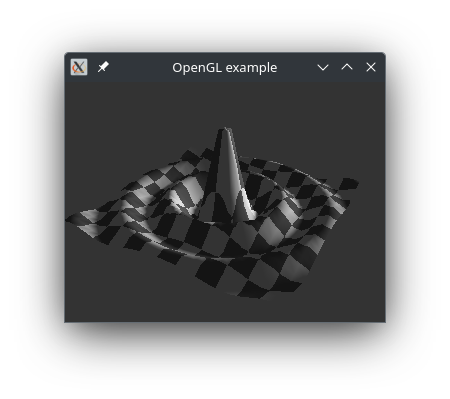
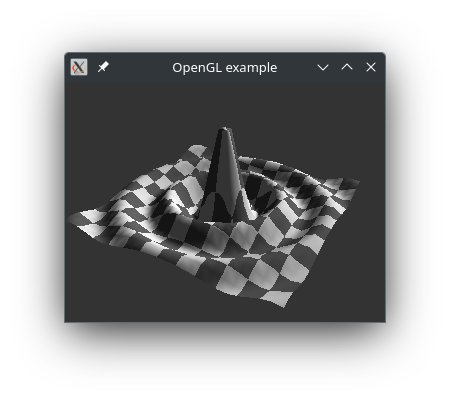
Rotate normals

Changed region(s): [[0.1244, 0.3609, 0.8089, 0.782]]

diff --git a/opengl-example.c b/opengl-example.c
@@ -42,7 +42,7 @@ uniform mat4 projection;\n\
 uniform float distance;\n\
 in vec2 uv_contr[];\n\
 out vec2 uv_eval;\n\
-out vec2 grad_eval;\n\
+out vec3 normal_eval;\n\
 float amplitude = 0.4;\n\
 float scale = 30;\n\
 float sinc(float x)\n\
@@ -68,7 +68,7 @@ void main()\n\
                  mix(gl_in[3].gl_Position, gl_in[2].gl_Position, gl_TessCoord.x),\n\
                  gl_TessCoord.y);\n\
   pos.z = f(pos.xy);\n\
-  grad_eval = fdv(pos.xy);\n\
+  normal_eval = rotx * rotz * vec3(-fdv(pos.xy), 1);\n\
   vec3 translation = vec3(0, 0, -distance);\n\
   gl_Position = projection * vec4(rotx * rotz * pos.xyz + translation, 1);\n\
   uv_eval = mix(mix(uv_contr[0], uv_contr[1], gl_TessCoord.x),\n\
@@ -79,23 +79,23 @@ void main()\n\
 const char *geometrySource = "#version 410 core\n\
 layout(triangles) in;\n\
 in vec2 uv_eval[3];\n\
-in vec2 grad_eval[3];\n\
+in vec3 normal_eval[3];\n\
 layout(triangle_strip, max_vertices = 3) out;\n\
 out vec2 UV;\n\
-out vec2 gradient;\n\
+out vec3 normal;\n\
 void main(void)\n\
 {\n\
   gl_Position = gl_in[0].gl_Position;\n\
   UV = uv_eval[0];\n\
-  gradient = grad_eval[0];\n\
+  normal = normal_eval[0];\n\
   EmitVertex();\n\
   gl_Position = gl_in[1].gl_Position;\n\
   UV = uv_eval[1];\n\
-  gradient = grad_eval[1];\n\
+  normal = normal_eval[1];\n\
   EmitVertex();\n\
   gl_Position = gl_in[2].gl_Position;\n\
   UV = uv_eval[2];\n\
-  gradient = grad_eval[2];\n\
+  normal = normal_eval[2];\n\
   EmitVertex();\n\
   EndPrimitive();\n\
 }";
@@ -104,13 +104,13 @@ const char *fragmentSource = "#version 410 core\n\
 uniform sampler2D tex;\n\
 uniform vec3 light;\n\
 in vec2 UV;\n\
-in vec2 gradient;\n\
+in vec3 normal;\n\
 out vec3 fragColor;\n\
 void main()\n\
 {\n\
-  vec3 normal = normalize(vec3(-gradient, 1));\n\
+  vec3 n = normalize(normal);\n\
   float ambient = 0.2;\n\
-  float diffuse = 0.8 * max(dot(light, normal), 0);\n\
+  float diffuse = 0.8 * max(dot(light, n), 0);\n\
   fragColor = (ambient + diffuse) * texture(tex, UV).rgb;\n\
 }";
 

diff --git a/opengl.tex b/opengl.tex
@@ -982,7 +982,7 @@ void main()
     \begin{center}
         \begin{minipage}[c]{.95\textwidth}
             \begin{minted}[highlightlines={15}]{glsl}
-out vec2 grad_eval;
+out vec3 normal_eval;
 // ...
 vec2 fdv(vec2 v)
 {
@@ -997,7 +997,7 @@ vec2 fdv(vec2 v)
 void main()
 {
   // ...
-  grad_eval = fdv(pos.xy);
+  normal_eval = rotx * rotz * vec3(-fdv(pos.xy), 1);
   // ...
 }
             \end{minted}
@@ -1012,19 +1012,19 @@ void main()
         \begin{minipage}[c]{.95\textwidth}
             \begin{minted}[highlightlines={2,4,8,11,14}]{glsl}
 // ...
-in vec2 grad_eval[3];
+in vec3 normal_eval[3];
 // ...
-out vec2 gradient;
+out vec3 normal;
 void main(void)
 {
   // ...
-  gradient = grad_eval[0];
+  normal = normal_eval[0];
   EmitVertex();
   // ...
-  gradient = grad_eval[1];
+  normal = normal_eval[1];
   EmitVertex();
   // ...
-  gradient = grad_eval[2];
+  normal = normal_eval[2];
   EmitVertex();
   EndPrimitive();
 }
@@ -1043,13 +1043,13 @@ void main(void)
 uniform sampler2D tex;
 uniform vec3 light;
 in vec2 UV;
-in vec2 gradient;
+in vec3 normal;
 out vec3 fragColor;
 void main()
 {
-  vec3 normal = normalize(vec3(-gradient, 1));
+  vec3 n = normalize(normal);
   float ambient = 0.2;
-  float diffuse = 0.8 * max(dot(light, normal), 0);
+  float diffuse = 0.8 * max(dot(light, n), 0);
   fragColor = (ambient + diffuse) * texture(tex, UV).rgb;
 }
             \end{minted}
